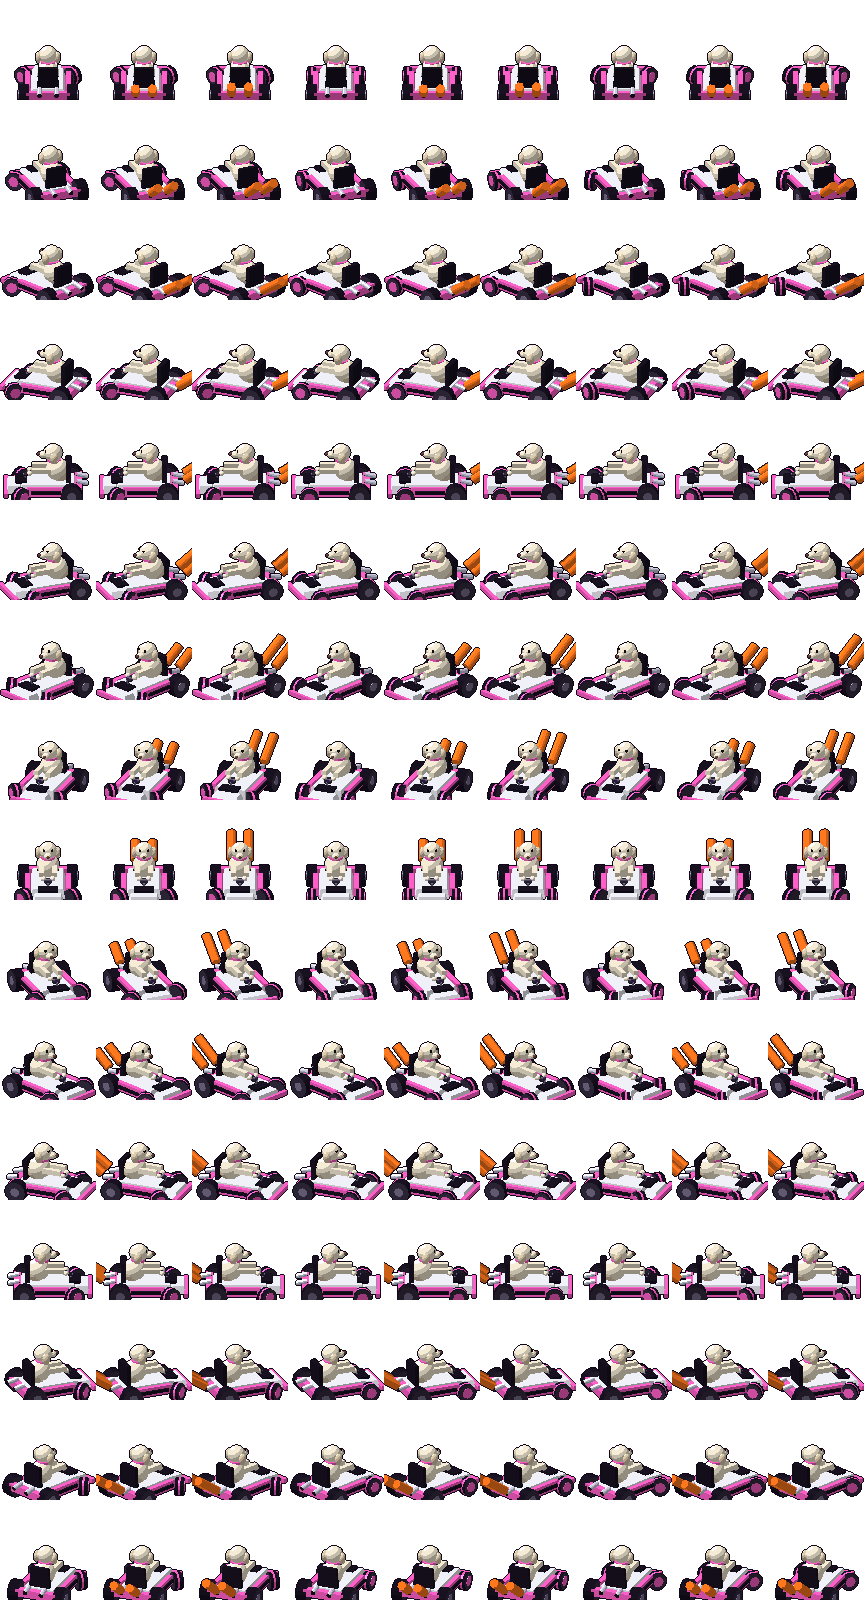
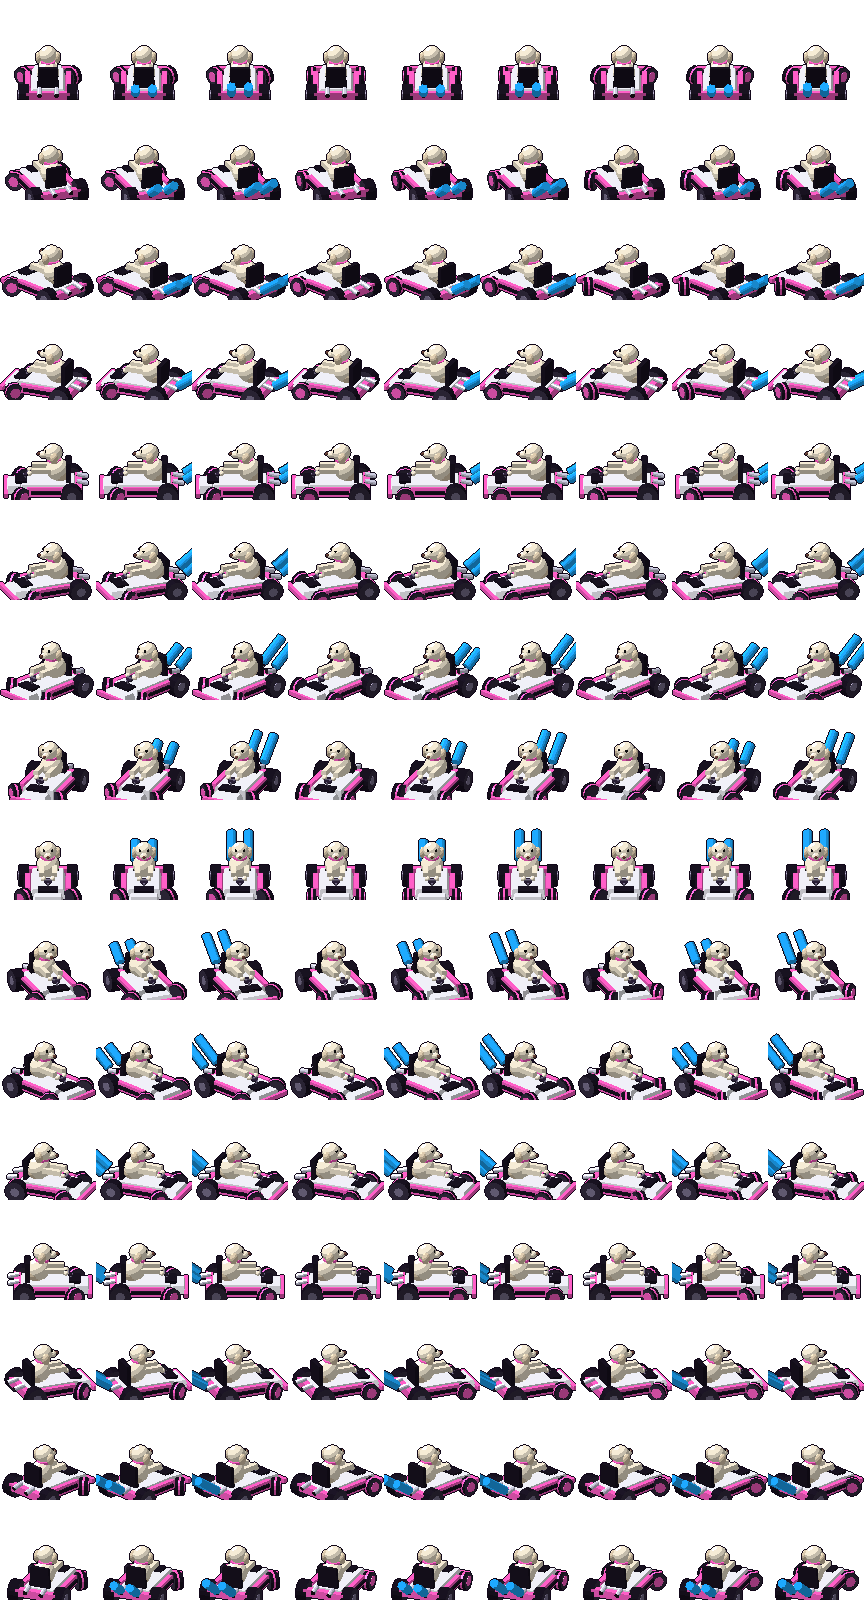
Pink Kart: turquoise and orange flames, BEARMANPIG and BOBO drivers, new menu

diff --git a/game/kart/kart.ts b/game/kart/kart.ts
@@ -266,14 +266,15 @@ const ITEM_LABEL: Record<ItemName, string> = {
   wall: "REVERB WALL",
 };
 // kart colours: the player keeps the drawn pink, the bots get these instead of pink
-const BOTS: { name: string; car: string; color: [number, number, number] }[] = [
+// fire: "orange" = this racer's exhaust flames are orange (everyone else's are turquoise, as drawn in the kart sheets)
+const BOTS: { name: string; car: string; color: [number, number, number]; fire?: "orange" }[] = [
   { name: "808", car: "mane", color: [60, 220, 255] },
   { name: "SERUM", car: "mane", color: [150, 255, 80] },
-  { name: "VOID", car: "mane", color: [255, 150, 40] },
+  { name: "VOID", car: "mane", color: [255, 150, 40], fire: "orange" },
   { name: "HEX", car: "mane", color: [150, 100, 255] },
-  { name: "KONG", car: "mane", color: [255, 70, 90] },
+  { name: "KONG", car: "mane", color: [255, 70, 90], fire: "orange" },
   { name: "JUNGLE", car: "mane", color: [80, 255, 200] },
-  { name: "BOMBER", car: "mane", color: [255, 230, 60] },
+  { name: "BOMBER", car: "mane", color: [255, 230, 60], fire: "orange" },
 ];
 // a racer's colour (skin 0 = the pink of the drawing)
 const skinColor = (skin: number): [number, number, number] => (skin === 0 ? [255, 70, 200] : BOTS[(skin - 1) % BOTS.length].color);
@@ -594,7 +595,7 @@ export class KartGame {
     // 4 = from his right, 8 = from the front, 12 = from his left) and 3 pictures per view (plain, flames, bigger flames).
     // It was rendered from a low-poly 3D model; each racer gets it in their own colour.
     this.kartSkins = [{ car: "mane", color: null }, ...BOTS].map((b) => {
-      const sheet = this.tint(this.img["kart3d-mane"], b.color as [number, number, number] | null);
+      const sheet = this.tint(this.img["kart3d-mane"], b.color as [number, number, number] | null, "fire" in b && b.fire === "orange");
       const fh = sheet.height / KART_ANGLES;
       const set: Record<string, HTMLCanvasElement> = {};
       for (let i = 0; i < KART_ANGLES; i++) {
@@ -643,16 +644,24 @@ export class KartGame {
   }
 
   // swap the pink in a kart picture for another colour (and tint the white body a little)
-  private tint(src: HTMLImageElement, col: [number, number, number] | null) {
+  // (orange = turn the turquoise exhaust flames orange: swapping red and blue makes turquoise into orange / yellow)
+  private tint(src: HTMLImageElement, col: [number, number, number] | null, orange = false) {
     const c = document.createElement("canvas");
     c.width = src.width;
     c.height = src.height;
     const x = c.getContext("2d")!;
     x.drawImage(src, 0, 0);
-    if (!col) return c;
+    if (!col && !orange) return c;
     const d = x.getImageData(0, 0, c.width, c.height);
     const p = d.data;
     for (let i = 0; i < p.length; i += 4) {
+      if (orange && p[i + 2] > 110 && p[i + 1] > p[i] * 1.35 && p[i + 2] >= p[i + 1] * 0.9) {
+        const t = p[i];
+        p[i] = p[i + 2];
+        p[i + 2] = t;
+        continue;
+      }
+      if (!col) continue;
       const r = p[i], g = p[i + 1], b = p[i + 2];
       if (r > 80 && r > g * 1.8 && b > g * 1.35) {
         const f = r / 255;
